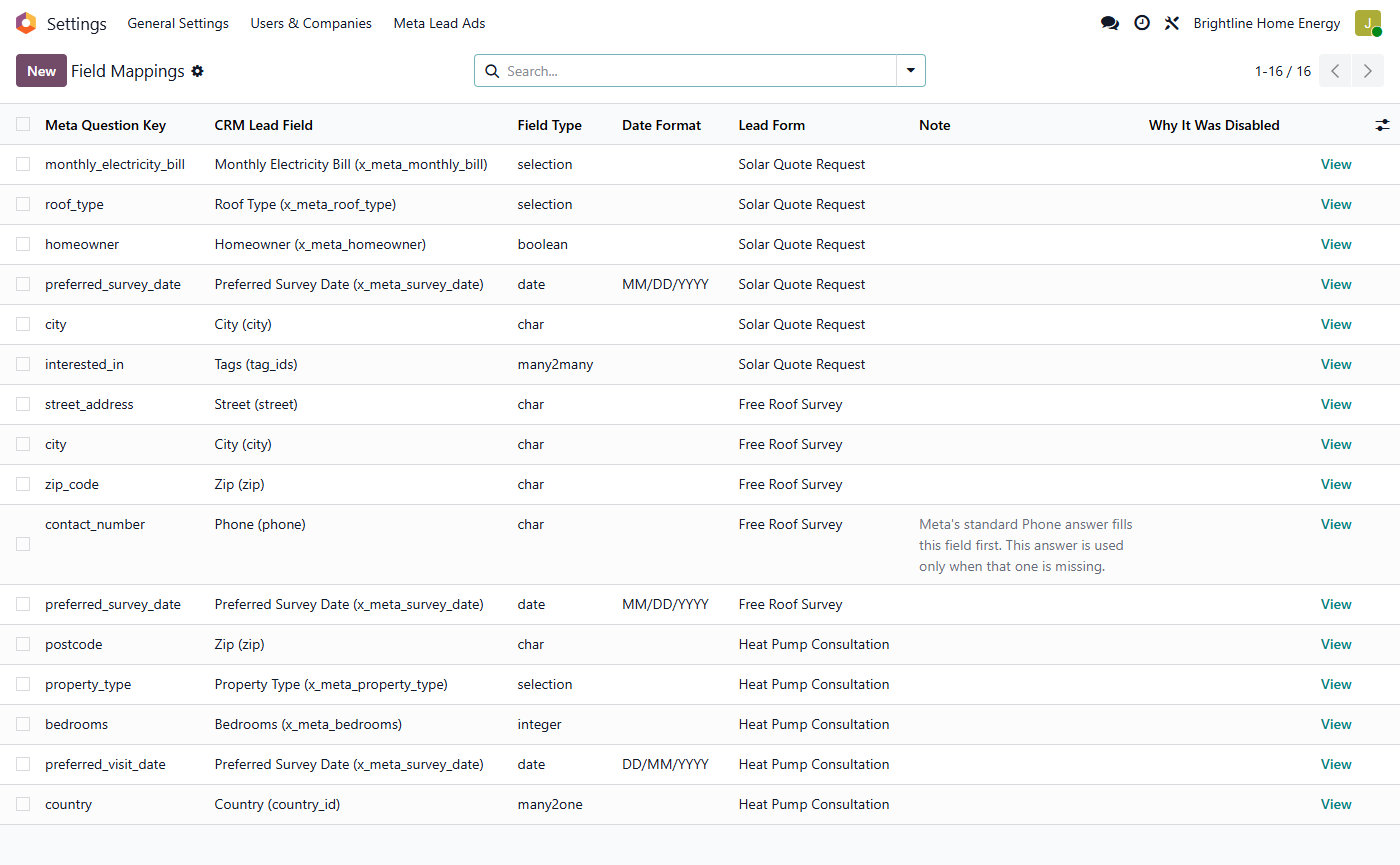
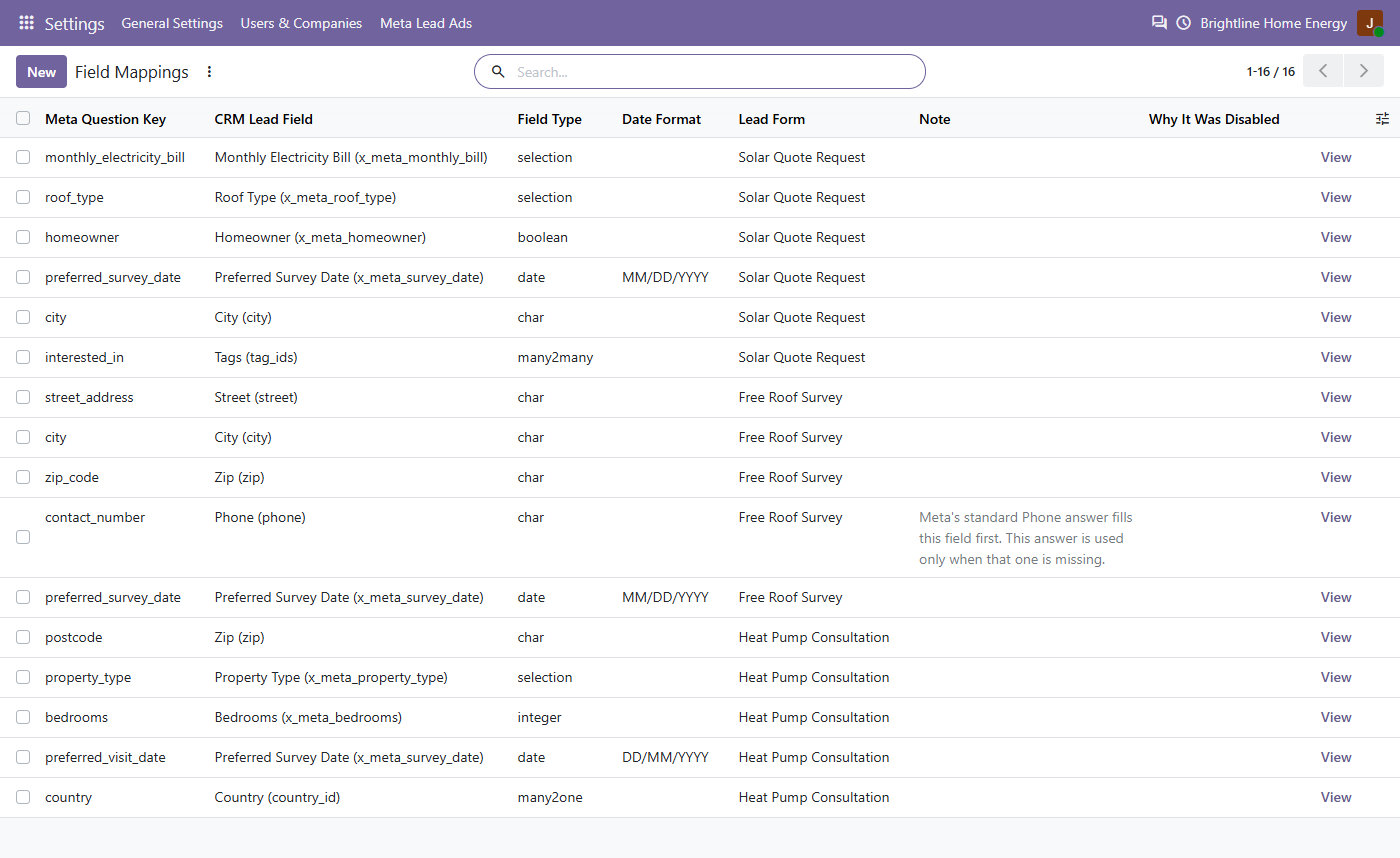
Meta Lead Ads 20.0.1.0.2: Odoo 20 store images, attribution block placement
The cover and screenshots are retaken on Odoo 20, and the Meta
Attribution block on the lead form sits below the contact details again.

diff --git a/meta_lead_ads/tests/test_ingest_integrity.py b/meta_lead_ads/tests/test_ingest_integrity.py
@@ -12,6 +12,7 @@ import uuid
 from datetime import datetime, timedelta
 from unittest import mock
 
+from lxml import etree
 from psycopg2 import IntegrityError
 from psycopg2.errors import SerializationFailure
 
@@ -1204,6 +1205,18 @@ class TestAttributionPending(IngestFixtureMixin, TransactionCase):
                       'meta_lead_ads.crm_lead_view_search_meta_analysis'):
             self.assertIn('filter_meta_attribution_pending',
                           self.env.ref(xmlid).arch_db)
+
+    def test_attribution_block_follows_the_contact_group(self):
+        # crm 20 opens the sheet with a phone-only group; the block belongs
+        # under the main one, the group holding the contact details.
+        form_view = self.env.ref('crm.crm_lead_view_form')
+        arch = etree.fromstring(self.env['crm.lead'].get_views(
+            [(form_view.id, 'form')])['views']['form']['arch'])
+        block = arch.xpath("//group[@name='meta_attribution']")[0]
+        main = arch.xpath("//sheet/group[group[@name='lead_partner']]")[0]
+        self.assertIs(block.getparent(), main.getparent())
+        siblings = list(block.getparent())
+        self.assertGreater(siblings.index(block), siblings.index(main))
 
     # ---- one stop per Page for a whole run ---------------------------------
 

diff --git a/meta_lead_ads/__manifest__.py b/meta_lead_ads/__manifest__.py
@@ -6,7 +6,7 @@
 
 {
     'name': 'Facebook Lead Ads to CRM',
-    'version': '20.0.1.0.1',
+    'version': '20.0.1.0.2',
     'category': 'Sales/CRM',
     'license': 'OPL-1',
     'summary': 'Bring Facebook & Instagram Lead Ads straight into Odoo CRM. A '
